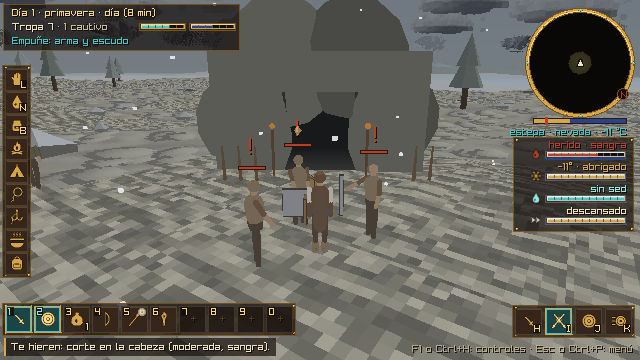
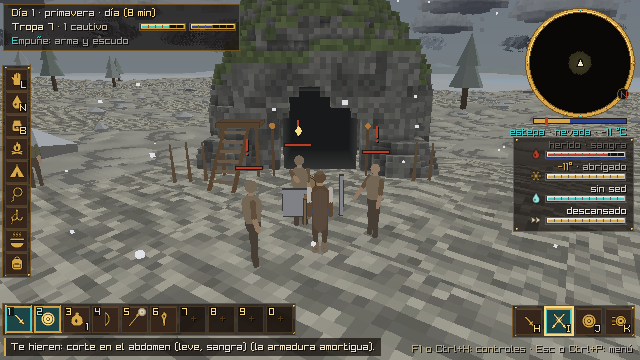
Las bocas de las cuevas (v0.13.1): la documentacion, las capturas y la version
- El plan (B1): la roca de voxeles de cada region con su arco, su tunel, las rocas del umbral y el cimiento;
  lo de cada tipo, delante y fuera del paso. Todas las abandonadas tienen la fachada (no «algunas»), y su
  reja esta caida en el suelo, a un costado.
- Las capturas de las bocas, de nuevo (fieras, forajidos, imperio y el montaje), y dos mas: la de una tribu
  y la abandonada (tools/capturas.sh). Las otras no cambian: solo variaban por la nieve y el fuego.
- --ir boca-<tipo>-ladera y -lado en la guia, el plan y el README; la arquitectura, el GDD y la hoja de ruta.
- Las notas de la release y VERSION 0.13.1.

Claude-Session: https://claude.ai/code/session_01LSTD6iWnn2bnoyhKZ9wkd2

diff --git a/docs/ROADMAP.md b/docs/ROADMAP.md
@@ -97,6 +97,7 @@ Decisión: el port de Android replica la experiencia de PC y se juega con **tecl
 - [x] Los bordes (v0.11.4, la fase 5 y última de [AGUA.md](AGUA.md)): del otro lado del canal del bosque, un muro de roca de estratos levantados que se ve y no se alcanza (`world_forest_wall`), con la orilla despejada; el mar abierto se nada hasta la línea del tiburón (`world_open_sea`): su aleta da vueltas y, si sigues, muerde; el jugador despierta en la playa con secuelas (`Health.sequela`: menos velocidad y aguante) que no se curan solas, solo con el curandero (de a poco, en el campamento) o el druida (de una vez).
 - [x] Las manos (v0.12.0, la fase A1 de [PLAN_TACTICO_Y_CUEVAS.md](PLAN_TACTICO_Y_CUEVAS.md); se publica con la v0.13.0): las teclas de las hojas (`H` ataque, `I` parry, `J` bloqueo, `K` carga o patada; `Tab` inventario, `L` menú, `O` objetivo, sin teclas que dependan del contexto); la espada y el escudo se guardan por separado (`Hands.right_away` y `left_away`; de serie, `1` la espada, `2` el escudo, `3` el odre) y los cuatro botones cambian con lo que está fuera; el parry con el escudo (lo desvía y lo aturde); por la espalda y con el rehén, `H` ejecuta e `I` empuja.
 - [x] El sistema táctico y las cuevas (v0.13.0, de A2 a B3 de [PLAN_TACTICO_Y_CUEVAS.md](PLAN_TACTICO_Y_CUEVAS.md); seis PR apilados, revisados y corregidos en uno): la barra rápida de 10 casillas, que se asigna desde el inventario (un número o un toque), con el odre (bebe o, junto al agua, se llena), el lazo al animal elegido, el gancho y la montura; el objetivo entre enemigos y animales salvajes (`O`, `Ctrl+Q`/`Ctrl+E`, el toque; con arco, los clics y mantener 1 s para soltar), que el personaje mira siempre y que se pierde a los 25 m o tras 6 s sin verlo; lo que tarda un enemigo en reconocerte (5, 7 o 3 s, menos de cerca) con el «?» y el «!»; `C` junto a un obstáculo del mundo te cubre, y con el arco te asomas, disparas y vuelves. Las cuevas de cada guarida, desde la semilla: la boca afuera, el vestíbulo, la bajada sin vuelta a la Cisterna Magna y el anillo de 3 a 9 recámaras; adentro, un espacio aparte con su luz y su oscuridad; lo que hay (para ver, para tomar o para encender), los prisioneros que se unen o traicionan, y los guardias de las habitadas que salen a la boca. Se guarda lo tomado y el día de los guardias (`GameActions.cave_done` y `cave_guards_day`); la partida de referencia `v0.13.0-cueva`.
+- [x] Las bocas de las cuevas (v0.13.1, de los PR #148 y #149 del Codespace, verificados y corregidos): la roca de cada boca es un risco de voxeles de la piedra de su región (`voxs_draw_cave_mouth`: cuatro variantes, refinada de cerca) con su arco, el túnel hueco y dos rocas bajas en el umbral que se rodean, y un cimiento que en las laderas no la deja en el aire. Delante, lo de cada tipo, sobre el suelo de la boca y fuera del paso: la escalera y el saliente de las habitadas, el bastidor de la tribu, la estacada de los forajidos y, en las abandonadas, la escalera rota y la fachada de una civilización desaparecida con su reja caída. Para las capturas, `--ir boca-<tipo>-ladera`.
 - [ ] Lo que queda de las hojas: las bestias terribles (el tipo B de cueva); la comida desde la barra (cuando el jugador tenga hambre); el gancho en las torres y la cuerda como tirolesa.
 - [x] El agua baja (v0.11.0, la fase 1 de [AGUA.md](AGUA.md)): las alturas del diseño del usuario (altiplano, desierto, estepa, bosque y costa, de mayor a menor) y dos cordilleras de frontera; la hidrología (Priority-Flood y la suma del agua, `src/sim/hydro.c`): ríos que nacen del deshielo y las lluvias, bajan por la cota más baja y se ramifican hasta el canal, el mar o el cañón; lagos en las depresiones con el nivel de su desborde y su río de salida; cascadas con su cortina y su espuma; el campamento en una loma. Siguen las fases 2 a 5 (las estaciones del agua; hielo, nado y pesca; el shader; los bordes y el tiburón).
 - [x] La verificación (v0.10.9): la revisión de lo que el Codespace fusionó de la v0.10.4 a la v0.10.8. El cambio de objetivo pasa a `Ctrl+Q` y `Ctrl+E` (con Q/E solas también giraba la cámara), con su prueba; el parry, el desvío y el gancho recuperan su pose y la tribu ya no hace un parry en medio del golpe; fuera los campos que nadie leía y las declaraciones repetidas; `src/entities/` sin tipos repetidos ni advertencias, marcado como andamiaje. El reparto nuevo (el Codespace implementa, Claude Code verifica y publica), las mismas reglas para Cline y Copilot, y las guardas del CI (`tools/ci/guardas.py`) con el pre-push del Codespace. Lo que el Codespace tenía sin subir, en la rama de archivo `cline/rescate-codespace`.
@@ -147,6 +148,7 @@ Decisión: el port de Android replica la experiencia de PC y se juega con **tecl
 - [x] Galería en el juego (`--galeria`) para revisar los modelos a escala.
 - [x] Activar text-to-cad (skill CAD en `.claude/skills/cad`, `tools/assets/cad.py`).
 - [x] Las skills de diseño también para Copilot en el Codespace: la skill `estetica` y el entorno (text-to-CAD, ImageMagick y Node) en `.devcontainer/`.
+- [x] El agente `pulir` y las instrucciones de lo que se ve, para Copilot (`.github/agents/` y `.github/instructions/`, v0.13.1), sin copiar las skills: Copilot ya lee `.claude/skills/`.
 - [ ] Importar y refinar los modelos (text-to-cad + Kiln).
 - [ ] Usar los modelos del inventario en el mundo (NPCs, animales, armas equipadas, etc.).
 
@@ -160,4 +162,4 @@ Decisión: el port de Android replica la experiencia de PC y se juega con **tecl
 ## Herramientas
 - **Assets 3D:** inventario en `assets/inventario.tsv`; importación en [assets/models/README.md](../assets/models/README.md); Kiln (`tools/assets/*.kiln.js`) y text-to-cad para crear y refinar.
 - **Optimización:** Ghidra sobre nuestros propios builds. Ver [GHIDRA.md](GHIDRA.md).
-- **Skills y agentes:** `.claude/skills/` (programación de juegos, C/C++, pruebas, depuración, revisión, diseño de juego y `estetica` para pulir lo que se ve), que cargan Claude Code y Copilot en el Codespace, y el equipo `gamedev-*` en `.claude/agents/` con `/gamedev <tarea>` (solo Claude Code). Origen y licencias en [.claude/skills/THIRD_PARTY.md](../.claude/skills/THIRD_PARTY.md); convenciones del proyecto en `.claude/skills/estepa/`.
+- **Skills y agentes:** `.claude/skills/` (programación de juegos, C/C++, pruebas, depuración, revisión, diseño de juego y `estetica` para pulir lo que se ve), que cargan Claude Code y Copilot en el Codespace, el equipo `gamedev-*` en `.claude/agents/` con `/gamedev <tarea>` (solo Claude Code) y, para Copilot, el agente `pulir` en `.github/agents/`. Origen y licencias en [.claude/skills/THIRD_PARTY.md](../.claude/skills/THIRD_PARTY.md); convenciones del proyecto en `.claude/skills/estepa/`.

diff --git a/docs/PLAN_TACTICO_Y_CUEVAS.md b/docs/PLAN_TACTICO_Y_CUEVAS.md
@@ -126,14 +126,28 @@ Pedido (2 de noviembre de 2026): cinco hojas del cuaderno del usuario y un docum
 Cada guarida del mundo tiene su cueva (`src/sim/caves.c`, desde la semilla y su índice: sin archivos ni bibliotecas).
 En las coordenadas de la cueva, la boca está en (0, 0) y +z va hacia adentro.
 
-- **Afuera,** la boca es un peñasco natural de silueta irregular, con un umbral estrecho, roca facetada y un túnel que
-  se oscurece hacia el fondo (`src/game/world_game.c`). Cerca de la boca no crecen árboles (12 m) y la cámara no se
-  mete en la roca. **Al caminar hacia adentro por la boca, se entra.**
-- Las cuevas no animales pueden mostrar señales de ocupación humana: una escalera de madera y una plataforma; las
-  tribales añaden postes, las de forajidos una estacada improvisada, las imperiales una plataforma más cuidada y las
-  abandonadas una escalera rota. Son elementos visuales y no cambian todavía las reglas de entrada.
-- Algunas cuevas abandonadas conservan una fachada antigua excavada: mampostería, dintel, nichos, hornacina y una reja
-  oxidada. Es una arquitectura de una civilización desaparecida, también puramente visual por ahora.
+- **Afuera** (v0.13.1), la boca es un risco de voxeles de la piedra de su región (`voxs_draw_cave_mouth`, en
+  `src/world/voxstruct.c`):
+  - arenisca en estratos en el desierto, granito en el altiplano y, en el resto, piedra con liquen y pasto en lo alto;
+  - un arco natural de 3,2 m de ancho abajo y 3,2 m de alto (más derecho en las abandonadas) y el túnel hueco detrás,
+    que se oscurece hacia el fondo;
+  - dos rocas bajas en el umbral, que quien camina rodea;
+  - un cimiento de 2,8 m, para que en una ladera nada quede en el aire;
+  - cuatro variantes por región, refinadas de cerca.
+
+  Cerca de la boca no crecen árboles (12 m) y la cámara no se mete en la roca. **Al caminar hacia adentro por la boca,
+  se entra.**
+- **Lo de cada tipo** va delante de la roca, sobre el suelo de la boca y fuera del paso (`src/game/world_game.c`). Se ve
+  pero no tiene colisión, y no cambia las reglas de entrada:
+  - **las habitadas:** antorchas a los lados, y una escalera de madera que sube a un saliente a 2 m (el del imperio, de
+    piedra, con pilares y baranda);
+  - **la tribu:** el bastidor con un cuero, la cortina corrida y el sol pintado;
+  - **los forajidos:** una estacada a los dos lados;
+  - **el imperio:** sus estandartes;
+  - **las fieras:** huesos y un cráneo;
+  - **las abandonadas:** una escalera rota apoyada en la roca, piedras caídas y la fachada de una civilización
+    desaparecida. La fachada tiene jambas y dintel de sillares, hiladas encima, dos nichos ciegos, una hornacina y la
+    reja oxidada, caída en el suelo a un costado.
 - **El vestíbulo:** tras la boca, una cámara chica y llana (3 m de radio). De su borde salen, cada uno por su lado, los
   tres pasillos de la boca: las dos salidas (a las recámaras `a` e `i`, los extremos del anillo) y la bajada.
 - **La Cisterna Magna:** la sala más honda (7 a 9 m de radio, el doble de alto). **La bajada** llega a ella desde el
@@ -202,7 +216,8 @@ Lo tomado, encendido o rescatado queda en `GameActions.cave_done` (un bit por ob
 `--cueva tipo[:lugar]` (tipo: `animal`, `abandonada`, `forajidos`, `tribu`, `imperio`; lugar: una sala o `boca`, `celda`,
 `dialogo`, `nido`, `huevos`, `presa`, `botin`, `arma`, `cofre`, `anfora`, `deposito`, `pintura`, `fogata`, `antorcha`,
 `veta`, `columna`), `--cueva-f` (F en el cuadro 20; con el diálogo abierto, romper las cadenas), `--antorcha` (encendida
-en la mano), `--caminar adelante|atras` e `--ir boca-<tipo>`. Las capturas: [CAPTURAS.md](CAPTURAS.md#las-cuevas).
+en la mano), `--caminar adelante|atras` e `--ir boca-<tipo>` (la más cercana; `boca-<tipo>-ladera`, la de ese tipo con
+más desnivel en la boca; con `-lado` al final, desde un costado). Las capturas: [CAPTURAS.md](CAPTURAS.md#las-cuevas).
 
 ---
 

diff --git a/tools/release/notas.md b/tools/release/notas.md
@@ -1,15 +1,13 @@
 Versión @VERSION@ de **SCAVENGERS THRIVE — THEY COME FROM THE STEPPES**: la tribu acampa en la estepa central de un mundo de cinco regiones que cambia en cada partida nueva.
 
-## Novedades: el sistema táctico y las cuevas
+## Novedades: las bocas de las cuevas
 
-- **Las manos:** `H` ataque, `I` parry, `J` bloqueo, `K` carga o patada, según lo que tengas fuera; la espada (`1`) y el escudo (`2`) se guardan por separado.
-- **La barra rápida, de 10 casillas** (`1` a `9` y `0`): con el inventario abierto (`Tab`), un número, o un toque en la fila de abajo, pone ahí lo elegido. El odre bebe o, junto al agua, se llena; el lazo va al animal elegido.
-- **El objetivo:** `O`, o un toque sobre la silueta, entre enemigos y animales salvajes; con un arma a distancia, los clics lo cambian y mantener 1 s lo suelta. Un enemigo tarda 5 s en reconocerte de día, 7 de noche y 3 con la antorcha (menos de cerca).
-- **A cubierto:** `C` junto a un tronco, una mata alta, una roca, una peña o una ruina; con un arma a distancia te asomas, disparas y vuelves.
-- **Las cuevas:** cada guarida tiene la suya. Se entra caminando por la boca. Adentro está oscuro: la antorcha, los cofres y las armas, los prisioneros que se unen a la tribu o te traicionan, y los guardias de las habitadas que salen a la boca.
+- **La roca, de voxeles:** cada boca es un risco de la piedra de su región, con su arco natural, el túnel detrás y dos rocas bajas en el umbral. En el desierto es arenisca en estratos; en el altiplano, granito; en el resto, piedra con liquen y pasto en lo alto. En una ladera no queda nada en el aire.
+- **De afuera se ve de quién es:** las habitadas tienen una escalera que sube a un saliente (el del imperio, de piedra y con baranda); la tribu, un bastidor con un cuero; los forajidos, su estacada. Las abandonadas tienen una escalera rota y la fachada de una civilización desaparecida, con su reja caída a un costado.
+- Todo está fuera del paso: se sigue entrando caminando por la boca.
 - Las partidas de antes cargan igual.
 
-El detalle, en el [README](https://github.com/amaturanas-sys/Scavenger/blob/v@VERSION@/README.md#controles) (en «Controles», el apartado «El sistema táctico y las cuevas») y en [docs/PLAN_TACTICO_Y_CUEVAS.md](https://github.com/amaturanas-sys/Scavenger/blob/v@VERSION@/docs/PLAN_TACTICO_Y_CUEVAS.md).
+Lo de la versión 0.13.0 sigue igual: las manos (`H`, `I`, `J`, `K`), la barra rápida de 10 casillas, el objetivo (`O`), la cobertura (`C`) y el interior de las cuevas. El detalle, en el [README](https://github.com/amaturanas-sys/Scavenger/blob/v@VERSION@/README.md#controles) (en «Controles», los apartados «Las bocas de las cuevas» y «El sistema táctico y las cuevas») y en [docs/PLAN_TACTICO_Y_CUEVAS.md](https://github.com/amaturanas-sys/Scavenger/blob/v@VERSION@/docs/PLAN_TACTICO_Y_CUEVAS.md).
 
 ## Android
 

diff --git a/README.md b/README.md
@@ -262,6 +262,24 @@ El objetivo con Ctrl+Q y Ctrl+E (v0.10.5): en combate, `Ctrl+Q` pasa al enemigo 
 
 Personajes con equipamiento, sin conectar (v0.10.8): `src/entities/` tiene la base de un sistema de personajes 3D con piezas de armadura en los huesos y texturas por material. Nada del juego lo usa todavía: espera los cuerpos riggeados y los modelos de cada pieza (ver `docs/ARQUITECTURA.md`).
 
+Las bocas de las cuevas (v0.13.1), la fase B1 pulida ([docs/PLAN_TACTICO_Y_CUEVAS.md](docs/PLAN_TACTICO_Y_CUEVAS.md)):
+- **La roca, de voxeles:** cada boca es un risco de la piedra de su región, con su arco natural, el túnel hueco detrás y
+  dos rocas bajas en el umbral, que se rodean. En el desierto es arenisca en estratos; en el altiplano, granito; en el
+  resto, piedra con liquen y pasto en lo alto. En una ladera, su cimiento no deja nada en el aire.
+- **De afuera se ve de quién es:**
+  - las habitadas tienen una escalera que sube a un saliente (el del imperio, de piedra y con baranda);
+  - la tribu, un bastidor con un cuero;
+  - los forajidos, una estacada a los dos lados;
+  - las abandonadas, una escalera rota y la fachada de una civilización desaparecida: jambas y dintel de sillares,
+    nichos, una hornacina y la reja oxidada, caída a un costado.
+
+  Todo está fuera del paso: se sigue entrando caminando por la boca.
+- **Las partidas de antes** cargan igual: no cambia nada de lo que se guarda.
+- **Copilot en el Codespace:** el agente `pulir` (en el selector de agentes) y las instrucciones de lo que se ve
+  (`.github/instructions/arte.instructions.md`) lo llevan a las skills de `.claude/skills/`.
+
+Pruebas: `--ir boca-<tipo>-ladera` (la boca de ese tipo con más desnivel) y `--ir boca-<tipo>-lado` (de costado).
+
 El sistema táctico y las cuevas (v0.13.0), el resto de las hojas ([docs/PLAN_TACTICO_Y_CUEVAS.md](docs/PLAN_TACTICO_Y_CUEVAS.md)):
 - **La barra rápida, de 10 casillas** (`1` a `9` y `0`): con el inventario abierto (`Tab`), un número (o un toque en la fila
   de abajo) pone lo elegido en esa casilla. El odre bebe o, junto al agua o a un pozo, se llena; el lazo va al animal
@@ -509,5 +527,6 @@ La clave de desarrollo es solo para builds de prueba. Para publicar en Google Pl
 ./build/estepa --enemigos bandidos --rehen                         # con un bandido de rehén
 ./build/estepa --cubierto --enemigos bandidos                      # a cubierto junto a una roca (C)
 ./build/estepa --ir boca-forajidos                                 # la boca de un refugio de forajidos (y sus guardias)
+./build/estepa --ir boca-abandonada-ladera --dron 7                # la abandonada con más desnivel, desde arriba (con -lado al final, de costado)
 ./build/estepa --cueva forajidos:dialogo --antorcha                # adentro, ante un prisionero (--cueva-f: romper las cadenas)
 ```

diff --git a/docs/ARQUITECTURA.md b/docs/ARQUITECTURA.md
@@ -56,7 +56,7 @@ src/
     save_format.* partida por bloques con esquema: escribir, leer y convertir campo por campo
   world/    Mundo (raylib)
     terrain.*    chunks con streaming, altura consultable
-    voxstruct.*  estructuras de voxeles: los sitios del mundo y los edificios del kit (la muralla, las ruinas y las obras de la tribu sin modelo tambien; de cerca, refinados; de lejos, simples)
+    voxstruct.*  estructuras de voxeles: los sitios del mundo, los edificios del kit (la muralla, las ruinas y las obras de la tribu sin modelo tambien) y la roca de la boca de las cuevas (con su arco y su tunel); de cerca, refinados; de lejos, simples
     vegetation.* el pasto, la stipa, las flores, los helechos y los juncos alrededor del jugador (una ventana de celdas que sigue al jugador; triangulos de color con rlgl)
     camp.*       campamento, props
     gallery.*    galeria del inventario (--galeria)
@@ -75,7 +75,7 @@ src/
     hazards_game.*  peligros en el juego: calor corporal, hielo, socavones, escolta, rescates
     combat_game.*   combate (a pie y montado), enemigos (y el ejercito de los reinos: la formacion cerrada, el pavés que para flechas, el carro de guerra que hace pasadas y arrolla), botin, vendajes, salud de la tribu y del jugador
     fauna_game.*    fauna en el mundo: aparicion por bioma (y las fieras de las guaridas de animales y abandonadas), ataques, K (comer, despiezar, ordeñar)
-    world_game.*    los pueblos, las tribus, las estructuras y las guaridas del mundo al verlos (al mapa); la boca de cada cueva desde afuera (el peñasco y su tunel), sus antorchas de noche, y la camara que no se mete en la roca
+    world_game.*    los pueblos, las tribus, las estructuras y las guaridas del mundo al verlos (al mapa); la boca de cada cueva desde afuera (la roca de voxstruct, el tunel oscuro y lo de cada tipo delante: escaleras, salientes, estacada, estandartes, la fachada de las abandonadas), sus antorchas de noche, y la camara y quien camina, que no se meten en la roca
     cave_game.*     adentro de una cueva: entrar y salir por la boca, moverse por cave_floor, la camara bajo la boveda, la luz por vertice, F (tomar, encender, mirar, liberar), el dialogo con un prisionero, los guardias de las habitadas y el plano
     disasters_game.* fuego, rayos, lluvia torrencial, fogatas apagadas por la lluvia
     save_game.*     partidas guardadas: tres huecos con minifoto y fecha, por bloques (docs/PARTIDAS.md)

diff --git a/docs/CAPTURAS.md b/docs/CAPTURAS.md
@@ -78,9 +78,11 @@ Una por guarida ([PLAN_TACTICO_Y_CUEVAS.md](PLAN_TACTICO_Y_CUEVAS.md), B1 a B3).
 
 | | |
 |---|---|
-| ![Boca de forajidos](capturas/cueva_boca_forajidos.png) | **La boca de un refugio de forajidos** (`--ir boca-forajidos`): el peñasco, el túnel, las antorchas y la estacada; sus guardias salen a pelear. |
-| ![Boca de fieras](capturas/cueva_boca_fieras.png) | **La boca de una guarida de fieras** (`--ir boca-animal`). |
-| ![Boca del imperio](capturas/cueva_boca_imperio.png) | **La boca de un almacén del imperio** (`--ir boca-imperio`): piedra labrada, estandartes y la guardia imperial. |
+| ![Boca de forajidos](capturas/cueva_boca_forajidos.png) | **La boca de un refugio de forajidos** (`--ir boca-forajidos`): la roca de voxeles con su arco y su túnel, las antorchas, la escalera al saliente y la estacada; sus guardias salen a pelear. |
+| ![Boca de fieras](capturas/cueva_boca_fieras.png) | **La boca de una guarida de fieras** (`--ir boca-animal`): la roca sola, con su arco natural, el liquen y el pasto en lo alto, y las dos rocas bajas del umbral. |
+| ![Boca del imperio](capturas/cueva_boca_imperio.png) | **La boca de un almacén del imperio** (`--ir boca-imperio`): el saliente de piedra con su baranda, los estandartes y la guardia imperial. |
+| ![Boca de una tribu](capturas/cueva_boca_tribu.png) | **La boca de un refugio de una tribu** (`--ir boca-tribu`): la cortina de cuero corrida, el sol pintado sobre el arco y el bastidor con un cuero. |
+| ![Boca abandonada](capturas/cueva_boca_abandonada.png) | **La boca de una cueva abandonada** (`--ir boca-abandonada`): en el desierto, la arenisca en estratos; la fachada de una civilización desaparecida (jambas, dintel, nichos y hornacina), la escalera rota y la reja caída a un costado. |
 | ![Guarida](capturas/cueva_fieras.png) | **Adentro de una guarida de fieras** (`--cueva animal:nido --antorcha`): el nido con sus huevos, a la luz de la antorcha. |
 | ![Cisterna](capturas/cueva_habitada.png) | **La Cisterna de los forajidos** (`--cueva forajidos:0 --antorcha`): la fogata, la columna de ladrillo, las pinturas y su antorcha, una telaraña y los charcos. |
 | ![Prisionero](capturas/cueva_prisionero.png) | **Un prisionero** (`--cueva forajidos:dialogo`): lo que dice, si se lo ve sincero, y romper las cadenas o dejarlo. |

diff --git a/docs/GUIA_IA.md b/docs/GUIA_IA.md
@@ -285,7 +285,7 @@ Desde `build/` (antes, `cmake -E copy_directory ../assets assets`), con `xvfb-ru
 | El asedio | `--asedio puerta`, `fuego`, `salida`, `quemada`, `tomada`… |
 | Combate | `--enemigos bandidos`, `culto`, `lobos`, `arqueros` |
 | El sistema táctico | `--manos escudo` (`espada`, `nada`), `--rehen`, `--objetivo`, `--cubierto`, `--inventario` (la fila de la barra) |
-| Las cuevas | `--ir boca-forajidos` (`animal`, `abandonada`, `tribu`, `imperio`): la boca, afuera; `--cueva forajidos:0 --antorcha`: adentro (lugar: una sala o `boca`, `celda`, `dialogo`, `nido`, `cofre`, `fogata`…); `--cueva-f` pulsa F; `--caminar adelante` (o `atras`) |
+| Las cuevas | `--ir boca-forajidos` (`animal`, `abandonada`, `tribu`, `imperio`): la boca, afuera (`boca-<tipo>-ladera`: la de ese tipo con más desnivel; con `-lado` al final, desde un costado); `--cueva forajidos:0 --antorcha`: adentro (lugar: una sala o `boca`, `celda`, `dialogo`, `nido`, `cofre`, `fogata`…); `--cueva-f` pulsa F; `--caminar adelante` (o `atras`) |
 | La galería de assets | `--galeria` |
 | El mapa del mundo | `--semilla 42 --mapa-mundo mapa.png` |
 | Las partidas de referencia | `--probar-partidas ../tests/partidas` |

diff --git a/docs/GDD.md b/docs/GDD.md
@@ -767,7 +767,10 @@ De las hojas del cuaderno del usuario; el detalle, en [PLAN_TACTICO_Y_CUEVAS.md]
   almacén del imperio. Se entra caminando por la boca: un vestíbulo, la bajada sin vuelta a la Cisterna Magna y el anillo de
   recámaras por donde se sale. Adentro, la oscuridad y las antorchas; F toma lo que hay (cofres, ánforas, armas, botín,
   vetas, huesos, nidos), enciende antorchas y fogatas, muestra las pinturas y libera prisioneros (se unen a la tribu o te
-  traicionan). Las habitadas tienen guardias que salen a la boca una vez por día.
+  traicionan). Las habitadas tienen guardias que salen a la boca una vez por día. Desde afuera, la boca dice de quién
+  es (v0.13.1): una escalera al saliente en las habitadas, el bastidor y la cortina de cuero de la tribu, la estacada
+  de los forajidos, los estandartes del imperio, y en las abandonadas una escalera rota y la fachada de una
+  civilización desaparecida.
 
 ### 2. Personaje y equipo (núcleo implementado — `src/sim/loadout.*`)
 - Personaje y vestuario personalizables (fase 3).
